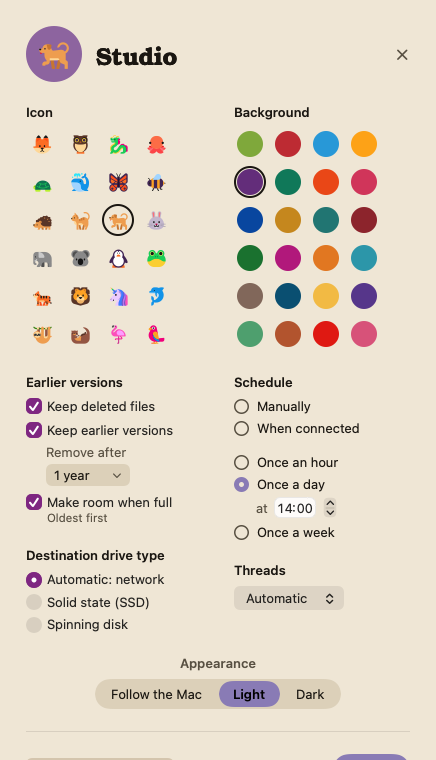
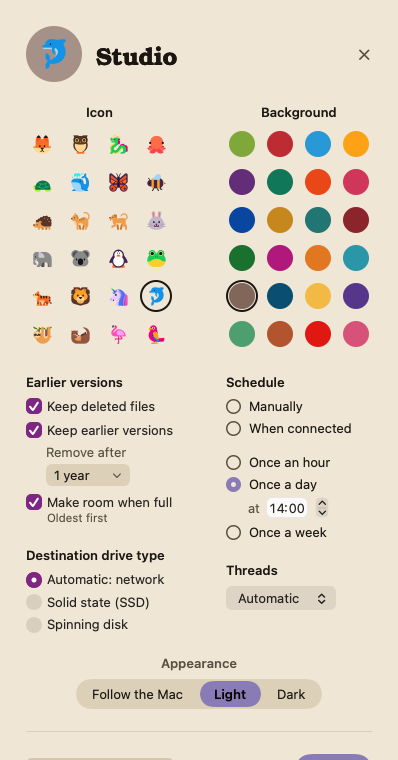
Archivist 0.0.21 — Cleaner header (a warning mark when something wasn't copied); balanced settings.

diff --git a/Archivist/JobView.swift b/Archivist/JobView.swift
@@ -29,6 +29,7 @@ struct JobView: View {
     }
 
     @State private var showingSettings = false
+    @State private var showingProblems = false
 
     var body: some View {
         VStack(spacing: 0) {
@@ -60,7 +61,38 @@ struct JobView: View {
                 .transition(.opacity)
             }
         }
+        .overlay {
+            if showingProblems {
+                GeometryReader { g in
+                    ZStack {
+                        Color.black.opacity(0.35).ignoresSafeArea().contentShape(Rectangle())
+                            .onTapGesture { showingProblems = false }
+                        VStack(alignment: .leading, spacing: 14) {
+                            HStack {
+                                Emoji(name: "warning", size: 22)
+                                Text("Not copied").font(Typeface.title(20)).foregroundStyle(Palette.ink)
+                                Spacer()
+                                Button { showingProblems = false } label: { Image(systemName: "xmark").font(.system(size: 13, weight: .semibold)) }
+                                    .buttonStyle(.plain).foregroundStyle(Palette.soft)
+                            }
+                            ScrollView { Problems(list: runner.problems).frame(maxWidth: .infinity, alignment: .leading) }
+                            Text("Start the backup again to try these once more.").font(Typeface.text(12)).foregroundStyle(Palette.soft)
+                        }
+                        .padding(24)
+                        .frame(width: SettingsSheet.width).frame(maxHeight: min(420, g.size.height - 32))
+                        .fixedSize(horizontal: false, vertical: true)
+                        .background(Palette.ground)
+                        .clipShape(RoundedRectangle(cornerRadius: 12))
+                        .shadow(color: .black.opacity(0.25), radius: 20, y: 6)
+                    }
+                    .frame(width: g.size.width, height: g.size.height)
+                }
+                .transition(.opacity)
+            }
+        }
+        .onReceive(NotificationCenter.default.publisher(for: .showProblems)) { _ in showingProblems = true }
         .animation(.easeOut(duration: 0.15), value: showingSettings)
+        .animation(.easeOut(duration: 0.15), value: showingProblems)
         .onReceive(NotificationCenter.default.publisher(for: .showSettings)) { _ in showingSettings = true }
         .onExitCommand { showingSettings = false }
         .task(id: refreshKey) { await refresh() }
@@ -256,10 +288,11 @@ struct SourcesPane: View {
                         .lineLimit(1)
                         .offset(y: 1.5)
                 }
-                if !view.runner.running && !view.runner.problems.isEmpty {   // which files, and why: a click lists them
-                    ProblemsLink(list: view.runner.problems).offset(y: 1.5)
+                if needed > 0 { Spacer() }
+                if !view.runner.running && !view.runner.problems.isEmpty {   // something failed: a click opens the list
+                    Button { NotificationCenter.default.post(name: .showProblems, object: nil) } label: { Emoji(name: "warning", size: 16) }
+                        .buttonStyle(.plain).help("Some files weren't copied").offset(y: 1.5)
                 }
-                if needed > 0 || (!view.runner.running && !view.runner.problems.isEmpty) { Spacer() }
                 if !job.sources.isEmpty {
                     (Text("\(job.sources.count) \(job.sources.count == 1 ? "item" : "items"), ")
                      + Text(bytes(total)).fontWeight(.semibold).foregroundColor(Palette.ink))
@@ -529,18 +562,6 @@ struct Missing: View {
     }
 }
 
-struct ProblemsLink: View {
-    let list: [String]
-    @State private var open = false
-    var body: some View {
-        let folders = list.filter { $0.hasPrefix("Folder ") }.count, files = list.count - folders
-        let words = [folders > 0 ? "\(folders) \(folders == 1 ? "folder" : "folders")" : nil,
-                     files > 0 ? "\(files) \(files == 1 ? "file" : "files")" : nil].compactMap { $0 }
-        Button(words.joined(separator: ", ") + " not copied") { open = true }
-            .buttonStyle(.plain).font(Typeface.text(13, .semibold)).foregroundStyle(Palette.due)
-            .popover(isPresented: $open) { Problems(list: list).padding(16).frame(width: 380) }
-    }
-}
 
 /// Free space on the destination, and whether this backup fits.
 struct SpaceBar: View {
@@ -726,8 +747,6 @@ struct Problems: View {
     let list: [String]
     var body: some View {
         VStack(alignment: .leading, spacing: 6) {
-            Text(list.count == 1 ? "One thing could not be copied" : "\(list.count) things could not be copied")
-                .font(Typeface.text(13, .semibold)).foregroundStyle(Palette.warn)
             ForEach(list.prefix(8), id: \.self) { Text($0).font(Typeface.text(12)).foregroundStyle(Palette.soft).fixedSize(horizontal: false, vertical: true) }
             if list.count > 8 { Text("and \(list.count - 8) more").font(Typeface.text(12)).foregroundStyle(Palette.soft) }
             if list.contains(where: { $0.contains("Operation not permitted") }) {
@@ -766,8 +785,8 @@ enum FolderWatch {
 /// The one place to change a backup: name, picture and colour, schedule, drive type,
 /// appearance, and deleting it.
 struct SettingsSheet: View {
-    static let column: CGFloat = 176
-    static let width: CGFloat = 26 + column + 32 + column + 26
+    static let left: CGFloat = 168, right: CGFloat = 146   // as wide as what they hold: Keep earlier versions; the colour grid
+    static let width: CGFloat = 26 + left + 32 + right + 26   // equal margins both sides
     let view: JobView
     var close: () -> Void = {}
     @Environment(JobStore.self) private var store
@@ -792,7 +811,7 @@ struct SettingsSheet: View {
                 // Two fixed columns: nothing chosen inside can change the panel's width.
                 Grid(alignment: .topLeading, horizontalSpacing: 32, verticalSpacing: 24) {
                     GridRow {
-                    section("Icon") {
+                    centred("Icon") {
                         LazyVGrid(columns: Array(repeating: GridItem(.fixed(32), spacing: 6, alignment: .leading), count: 4),
                                   alignment: .leading, spacing: 6) {
                             ForEach(Job.icons, id: \.self) { n in
@@ -804,8 +823,8 @@ struct SettingsSheet: View {
                         }
                         .fixedSize()
                     }
-                    .frame(width: Self.column, alignment: .leading)
-                    section("Background") {
+                    .frame(width: Self.left, alignment: .leading)
+                    centred("Background") {
                         LazyVGrid(columns: Array(repeating: GridItem(.fixed(32), spacing: 6, alignment: .leading), count: 4),
                                   alignment: .leading, spacing: 6) {
                             ForEach(Nippon.colors, id: \.hex) { c in
@@ -817,7 +836,7 @@ struct SettingsSheet: View {
                         }
                         .fixedSize()
                     }
-                    .frame(width: Self.column, alignment: .leading)
+                    .frame(width: Self.right, alignment: .leading)
                     }
                     GridRow {
                     VStack(alignment: .leading, spacing: 22) {
@@ -860,7 +879,7 @@ struct SettingsSheet: View {
                             .pickerStyle(.radioGroup).labelsHidden()
                         }
                     }
-                    .frame(width: Self.column, alignment: .leading)
+                    .frame(width: Self.left, alignment: .leading)
                     VStack(alignment: .leading, spacing: 22) {
                         section("Schedule") { ScheduleChooser(view: view) }
                         section("Threads") {
@@ -871,7 +890,7 @@ struct SettingsSheet: View {
                             .labelsHidden().fixedSize()
                         }
                     }
-                    .frame(width: Self.column, alignment: .leading)
+                    .frame(width: Self.right, alignment: .leading)
                     }
                 }
                 .frame(maxWidth: .infinity)
@@ -919,6 +938,15 @@ struct SettingsSheet: View {
     private func saveName() {
         let t = name.trimmingCharacters(in: .whitespaces)
         if !t.isEmpty { view.edit { $0.title = t } }
+    }
+
+    /// A title centred over its grid.
+    @ViewBuilder private func centred<C: View>(_ title: String, @ViewBuilder _ content: () -> C) -> some View {
+        VStack(alignment: .center, spacing: 8) {
+            Text(title).font(Typeface.text(13, .semibold)).foregroundStyle(Palette.ink)
+            content()
+        }
+        .fixedSize()
     }
 
     @ViewBuilder private func section<C: View>(_ title: String, @ViewBuilder _ content: () -> C) -> some View {
@@ -1086,4 +1114,5 @@ struct ScheduleChooser: View {
 
 extension Notification.Name {
     static let showSettings = Notification.Name("ArchivistShowSettings")
+    static let showProblems = Notification.Name("ArchivistShowProblems")
 }
